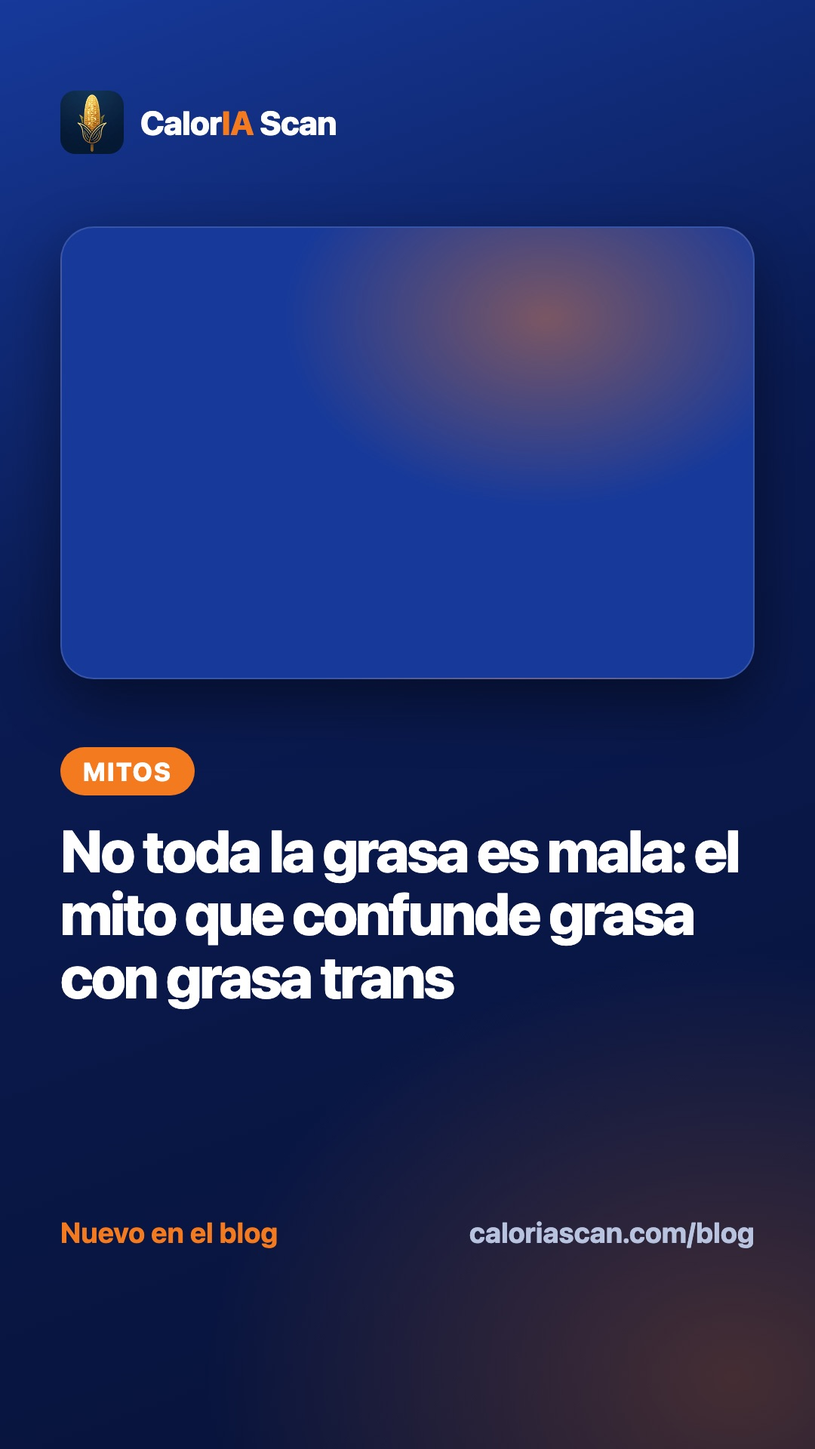
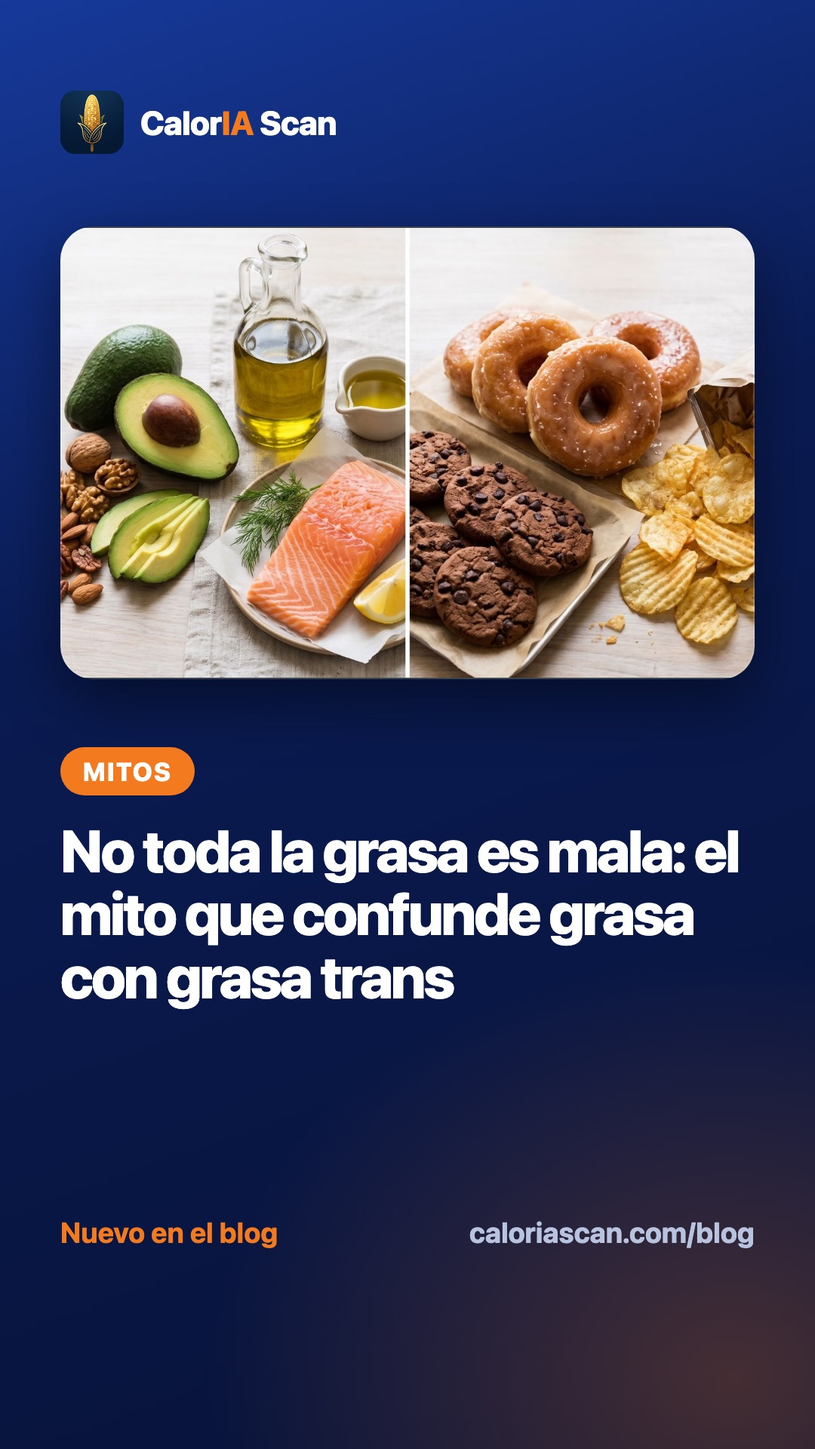
Blog: add hero photo and CalorIA Scan callout to the fat myth article (ES/EN)
Photo of healthy fats vs ultra-processed snacks, provided by CalorIA Scan,
cropped to 16:9 at 1600x900. Adds the "Qué puede hacer CalorIA Scan por ti"
section before the conclusion and softens the conclusion's claim about fat
types. The regenerated page also picks up the callout styles and a fresher
"Keep reading" list; the Mitos card on both hubs now shows the photo.

Changed region(s): [[0.0611, 0.1562, 0.9472, 0.4688]]

diff --git a/blog/grasa-buena-vs-grasa-trans-mito.html b/blog/grasa-buena-vs-grasa-trans-mito.html
@@ -62,6 +62,18 @@ p{margin:0 0 16px;font-size:17px}
 .tldr{background:var(--soft);border:1px solid var(--line);border-left:4px solid var(--g);border-radius:12px;padding:16px 20px;margin:26px 0}
 .tldr h2{margin:0 0 8px;font-size:15px;text-transform:uppercase;letter-spacing:.05em;color:var(--g)}
 .tldr ul{margin:0;padding-left:20px}.tldr li{margin:6px 0;font-size:16px}
+.tldr-jump{display:inline-block;margin-top:10px;font-size:15px;font-weight:700;color:var(--g);text-decoration:none}.tldr-jump:hover{text-decoration:underline}
+.app-callout{position:relative;margin:40px 0;padding:22px 24px 20px 30px;border-radius:20px;background:linear-gradient(160deg,#f3faf4 0%,#e8f4eb 100%);border:1.5px solid #bfe0c5;box-shadow:0 10px 30px rgba(46,125,50,.12);scroll-margin-top:20px}
+.app-callout::before{content:"";position:absolute;left:0;top:0;bottom:0;width:7px;border-radius:20px 0 0 20px;background:linear-gradient(180deg,var(--g),#e8622e)}
+.app-tag{display:flex;align-items:center;gap:10px;font-size:12px;font-weight:800;letter-spacing:.08em;text-transform:uppercase;color:var(--g)}
+.app-tag img{border-radius:8px;display:block}
+.app-callout h2{margin:8px 0 12px}
+.app-callout ul{list-style:none;padding:0;margin:0 0 14px}
+.app-callout li{position:relative;padding:11px 0 11px 36px;border-top:1px solid #d3e8d6;font-size:16px;line-height:1.5}
+.app-callout li:first-child{border-top:0}
+.app-callout li::before{content:"✓";position:absolute;left:0;top:11px;width:23px;height:23px;border-radius:50%;background:var(--g);color:#fff;font-size:13px;font-weight:800;display:flex;align-items:center;justify-content:center;line-height:1}
+.app-callout p:last-of-type{margin-bottom:6px}
+@media(max-width:560px){.app-callout{padding:20px 18px 18px 24px}}
 .cta{background:#f0f7f1;border:1px solid #cfe6d3;border-radius:16px;padding:24px;margin:34px 0;text-align:center}
 .cta h2{margin:0 0 8px}.cta p{color:var(--ink)}.btn{display:inline-block;background:var(--g);color:#fff;text-decoration:none;padding:13px 24px;border-radius:10px;font-weight:700;margin-top:6px}
 .sources{font-size:14px;color:var(--mut);padding-left:22px}.sources li{margin:7px 0}.sources a{word-break:break-word}
@@ -87,6 +99,30 @@ ul.rel a:hover{border-color:var(--g)}
 .comment-hp{position:absolute;left:-9999px;width:1px;height:1px;overflow:hidden}
 .disc{font-size:12px;color:var(--mut);border-top:1px solid var(--line);margin-top:38px;padding-top:14px}
 footer{font-size:13px;color:var(--mut);margin-top:16px}footer a{color:var(--mut)}
+.shots{margin:26px 0}.shots .phones{display:flex;flex-wrap:wrap;justify-content:center;gap:22px}.shots figcaption{font-size:13px;color:var(--mut);text-align:center;margin-top:12px}
+.phone{position:relative;width:300px;height:590px;border:7px solid #1c2430;border-radius:38px;background:#FCF3E9;overflow:hidden;font-family:ui-rounded,"SF Pro Rounded","Nunito",-apple-system,"Segoe UI",system-ui,sans-serif;color:#2b1c12;line-height:1.25;box-shadow:0 14px 34px rgba(60,40,20,.18);text-align:left}
+.phone *{box-sizing:border-box;margin:0}
+.phone .ph-top{display:flex;align-items:center;gap:22px;padding:16px 16px 8px}.phone .ph-top b{font-size:19px;font-weight:800}
+.phone .ph-card{background:#fff;border-radius:22px;padding:14px;margin:8px 10px 10px;box-shadow:0 4px 14px rgba(120,80,30,.07)}
+.phone .ph-ring{display:flex;align-items:center;gap:12px}.phone .ph-ring .ph-mut{white-space:nowrap}.phone .ph-ring div>.ph-mut:last-child{font-size:11px}.phone .ph-ring svg{flex:none}
+.phone .ph-mut{color:#8b7a6a;font-size:12px}.phone .ph-big{font-size:36px;font-weight:900;color:#2DBE60;line-height:1.05}
+.phone .ph-bar{height:11px;border-radius:6px;background:#8FB0E4;margin:12px 0 9px}.phone .ph-leg{font-size:12px;color:#8b7a6a;display:flex;align-items:center;gap:6px}
+.phone .dot{width:9px;height:9px;border-radius:50%;display:inline-block;flex:none}
+.phone .ph-h{display:flex;align-items:center;gap:8px;font-weight:800;font-size:17px}
+.phone .pro{background:#F5821F;color:#fff;font-size:9px;font-weight:800;border-radius:10px;padding:3px 8px;letter-spacing:.03em}
+.phone .seg{display:inline-flex;background:#FFCB77;border-radius:14px;padding:3px;margin:10px 0 9px}.phone .seg span{font-size:12px;padding:6px 12px;border-radius:11px;color:#6b4a1c}.phone .seg .on{background:#FF8A1F;color:#fff;font-weight:700}
+.phone .ph-stack{display:flex;gap:2px;height:11px;margin:9px 0 10px}.phone .ph-stack i{display:block;height:100%}.phone .ph-stack i:first-child{border-radius:6px 0 0 6px}.phone .ph-stack i:last-child{border-radius:0 6px 6px 0}
+.phone .ph-note{background:#E6F6EA;border-radius:14px;padding:9px 12px;font-size:12.5px;color:#6f6558;margin-bottom:8px}
+.phone .ph-row{display:flex;align-items:center;gap:10px;padding:7px 0}.phone .ph-row .n{flex:1;font-size:14px;color:#7a6a5a;font-weight:700}.phone .ph-row small{display:block;font-size:11.5px;font-weight:500;color:#8b7a6a}.phone .ph-row .r{text-align:right;font-weight:800;font-size:14px;color:#2b1c12}.phone .ph-row .r small{font-weight:500}
+.phone .ph-ai{background:linear-gradient(135deg,#FFF1E0,#FFE2C8);border:1.5px solid #F8C79A;border-radius:22px;padding:13px 14px;margin:8px 10px 10px}
+.phone .ph-ai .hd{display:flex;align-items:center;gap:9px;font-weight:800;font-size:14px}.phone .ph-ai .hd .pro{margin-left:auto}.phone .ph-ai p{display:flex;gap:9px;font-size:12.5px;line-height:1.45;color:#3a2a1e;margin:9px 0 0}
+.phone .chips{display:flex;gap:7px;margin:10px 0 6px;overflow:hidden;white-space:nowrap}.phone .chips span{border:1.5px solid #E6DED3;border-radius:20px;padding:6px 11px;font-size:12px;color:#4a3a2c;display:inline-flex;align-items:center;gap:6px;flex:none}.phone .chips .on{background:#FF8A1F;border-color:#FF8A1F;color:#fff;font-weight:700}
+.phone .ph-meal{display:flex;gap:10px;padding:7px 0}.phone .ph-ico{width:40px;height:40px;border-radius:12px;background:#FFCB77;flex:none;display:flex;align-items:center;justify-content:center;font-size:18px}
+.phone .ph-meal b{display:block;font-size:14px;color:#7a6a5a;font-weight:700}.phone .ph-meal .m{font-size:11.5px;color:#8b7a6a}.phone .tag{display:inline-block;background:#E8EEFA;color:#6a7f9e;border-radius:10px;padding:3px 9px;font-size:11.5px;margin-top:5px}.phone .tag.p{background:#FBEBD0;color:#9a7a45}
+.phone .ph-nav{position:absolute;left:10px;right:10px;bottom:12px;height:56px;background:#fff;border-radius:26px;box-shadow:0 -2px 18px rgba(120,80,30,.12);display:grid;grid-template-columns:1fr 1fr 62px 1fr 1fr;align-items:center;text-align:center}
+.phone .ph-nav div{font-size:10px;color:#b9a99a;display:flex;flex-direction:column;align-items:center;gap:2px}.phone .ph-nav div svg{width:20px;height:20px;fill:currentColor}.phone .ph-nav .on{color:#F5821F;font-weight:700}
+.phone .ph-fab{position:absolute;left:50%;bottom:36px;width:54px;height:54px;margin-left:-27px;border-radius:50%;background:linear-gradient(#FFB04A,#F57C1F);box-shadow:0 4px 0 #D96A12,0 8px 16px rgba(245,124,31,.35);display:flex;align-items:center;justify-content:center}.phone .ph-fab svg{width:26px;height:26px;fill:#fff}
+@media(max-width:560px){.phone{width:100%;max-width:300px}}
 @media(max-width:560px){h1{font-size:27px}.dek{font-size:17px}ul.rel{grid-template-columns:1fr}}
 </style>
 </head>
@@ -99,13 +135,14 @@ footer{font-size:13px;color:var(--mut);margin-top:16px}footer a{color:var(--mut)
 <p class="dek">Durante años nos vendieron la idea de que "bajo en grasa" es sinónimo de saludable. La ciencia dice algo distinto: importa qué tipo de grasa comes, no cuánta.</p>
 <p class="meta">Por CalorIA Scan · 18 de agosto de 2026 · 2 min de lectura</p>
 <div class="med-note" role="note"><span class="med-i" aria-hidden="true">i</span><div><b>Información, no consejo médico.</b> Consulta a un médico o nutriólogo antes de cambiar tu dieta, sobre todo si tienes alguna condición de salud.<small>Fuentes consultadas al publicar (18 de agosto de 2026) · <a href="/terms">Ver términos</a></small></div></div>
-
-<div class="tldr"><h2>En resumen</h2><ul><li>La OMS no recomienda eliminar la grasa: recomienda limitar la grasa saturada a menos del 10% de tus calorías diarias y la grasa trans a menos del 1%.</li><li>Las grasas insaturadas —las del aguacate, el aceite de oliva, las nueces y el pescado— no son el problema; se asocian con menor riesgo cardiovascular.</li><li>Muchos productos "bajos en grasa" de los 90 reemplazaban esa grasa con azúcar y harinas refinadas —lo cual empeoró, no mejoró, el problema.</li></ul></div>
+<img class="hero" src="/blog/img/grasa-buena-vs-grasa-trans-mito.jpg" alt="No toda la grasa es mala: el mito que confunde grasa con grasa trans" width="1200" height="675" loading="eager">
+<div class="tldr"><h2>En resumen</h2><ul><li>La OMS no recomienda eliminar la grasa: recomienda limitar la grasa saturada a menos del 10% de tus calorías diarias y la grasa trans a menos del 1%.</li><li>Las grasas insaturadas —las del aguacate, el aceite de oliva, las nueces y el pescado— no son el problema; se asocian con menor riesgo cardiovascular.</li><li>Muchos productos "bajos en grasa" de los 90 reemplazaban esa grasa con azúcar y harinas refinadas —lo cual empeoró, no mejoró, el problema.</li></ul><a class="tldr-jump" href="#que-hace-caloria-scan">Ir a: Qué puede hacer CalorIA Scan por ti ↓</a></div>
 <h2>De dónde viene el mito</h2><p>Durante los años 80 y 90, la industria alimentaria promovió con fuerza los productos "bajos en grasa" o "sin grasa" como la opción saludable por excelencia. El mensaje caló tan hondo que muchas personas todavía asocian cualquier grasa en la comida con subir de peso o dañar el corazón. El problema es que ese mensaje nunca distinguió entre los distintos tipos de grasa —y esa distinción es exactamente lo que importa.</p>
 <h2>Lo que la OMS realmente recomienda</h2><p>La Organización Mundial de la Salud no pide eliminar la grasa de la dieta. Su recomendación es limitar la grasa saturada a menos del 10% de las calorías diarias y la grasa trans a menos del 1% —idealmente evitarla por completo—, mientras se favorece un cambio hacia grasas insaturadas. Es una recomendación sobre el tipo de grasa, no sobre la cantidad total que comes.</p>
 <h2>La grasa que sí conviene comer</h2><p>Las grasas insaturadas —presentes en el aceite de oliva, el aguacate, las nueces, las semillas y el pescado— se asocian con menor riesgo cardiovascular, no mayor. Eliminarlas de la dieta no solo es innecesario, sino que te priva de nutrientes que el cuerpo necesita para absorber vitaminas y mantener las células funcionando bien.</p>
 <h2>El efecto secundario de las dietas bajas en grasa</h2><p>Cuando un producto le quita la grasa a un alimento, casi siempre necesita reemplazarla con algo para que siga sabiendo bien —y ese algo suele ser azúcar o harinas refinadas. Así fue como muchos productos "light" de los 90 terminaron siendo menos saludables que sus versiones originales, a pesar de la etiqueta.</p>
-<h2>La conclusión práctica</h2><p>No se trata de comer sin grasa, se trata de elegir bien de dónde viene. Cambia manteca y margarina por aceite de oliva, prioriza pescado y nueces sobre embutidos, y no le tengas miedo al aguacate. Si quieres ver exactamente cuánta grasa —y de qué tipo— llevas en tu plato, escanéalo con CalorIA Scan.</p>
+<section class="app-callout" id="que-hace-caloria-scan"><div class="app-tag"><img src="/assets/icon-app.png" alt="" width="30" height="30"><span>Con CalorIA Scan</span></div><h2>Qué puede hacer CalorIA Scan por ti</h2><p><ul><li><strong>Escanear tu plato:</strong> toma una foto y la app estima calorías y macros, incluida la grasa, pensando en la comida mexicana real.</li><li><strong>Ver de dónde vienen las calorías:</strong> el desglose por ingrediente te deja ver qué aporta más: el aguacate, el aceite del guisado o la fritura.</li><li><strong>Ajustar ingredientes y porciones:</strong> cambia frito por asado, quita la crema o corrige la porción (de ½ a 5); todo se recalcula al instante.</li><li><strong>Ver tu día frente a tu meta:</strong> define tu meta de calorías y macros y mira cuánto te queda.</li></ul></p><p>Los valores son estimaciones hechas con IA. Para saber si un producto empaquetado tiene grasas trans, lo más confiable sigue siendo su etiqueta.</p></section>
+<h2>La conclusión práctica</h2><p>No se trata de comer sin grasa, se trata de elegir bien de dónde viene. Cambia manteca y margarina por aceite de oliva, prioriza pescado y nueces sobre embutidos, y no le tengas miedo al aguacate. Si quieres saber cuánta grasa llevas en tu plato, escanéalo con CalorIA Scan.</p>
 
 <div class="cta">
 <h2>Deja de adivinar tus calorías</h2>
@@ -165,7 +202,7 @@ function igShare(b){var t=document.getElementById('ig-cap').value;fetch(b.getAtt
 </div>
 
 <h2>Sigue leyendo</h2>
-<ul class="rel"><li><a href="/blog/e141-clorofila-cobre-colorante"><span class="rc-emoji">🧪</span><span class="rc-cat">Aditivos</span><span class="rc-title">El verde brillante de tu goma de mascar no es "natural": es clorofila con cobre</span></a></li><li><a href="/blog/barras-granola-azucar-oculta"><span class="rc-emoji">🌾</span><span class="rc-cat">Mitos</span><span class="rc-title">Tu barrita de granola "fit" puede tener tanta azúcar como una galleta</span></a></li><li><a href="/blog/productos-light-azucar-oculta"><span class="rc-emoji">🍓</span><span class="rc-cat">Mitos</span><span class="rc-title">Tu yogurt "light" puede tener más azúcar que una dona</span></a></li><li><a href="/blog/huevo-colesterol-mito"><span class="rc-emoji">🥚</span><span class="rc-cat">Mitos</span><span class="rc-title">¿El huevo te tapa las arterias? Lo que la ciencia realmente encontró</span></a></li></ul>
+<ul class="rel"><li><a href="/blog/frijoles-proteina-o-carbohidrato"><span class="rc-emoji">🫘</span><span class="rc-cat">Mitos</span><span class="rc-title">¿Los frijoles son proteína o carbohidrato? La respuesta, con números</span></a></li><li><a href="/blog/maraton-guadalupe-reyes-cuanto-peso-se-sube"><span class="rc-emoji">🎄</span><span class="rc-cat">Salud</span><span class="rc-title">Maratón Guadalupe-Reyes: cuánto peso se sube y cómo evitarlo</span></a></li><li><a href="/blog/calorias-posadas-tamales-ponche-bunuelos"><span class="rc-emoji">🫔</span><span class="rc-cat">Salud</span><span class="rc-title">Calorías de las posadas: tamales, ponche y buñuelos</span></a></li><li><a href="/blog/deficit-calorico-que-es-por-que-importa"><span class="rc-emoji">⚖</span><span class="rc-cat">Salud</span><span class="rc-title">Déficit calórico: qué es, por qué importa y cómo CalorIA Scan te ayuda a llevarlo</span></a></li></ul>
 
 <p class="disc">Este artículo es informativo y no constituye consejo médico. Consulta a un médico o nutriólogo antes de cambiar tu dieta, especialmente si tienes alguna condición de salud.</p>
 <footer>© 2026 CalorIA Scan · <a href="/">Inicio</a> · <a href="/privacy-policy">Privacidad</a> · <a href="/terms">Términos</a></footer>

diff --git a/en/blog/grasa-buena-vs-grasa-trans-mito.html b/en/blog/grasa-buena-vs-grasa-trans-mito.html
@@ -62,6 +62,18 @@ p{margin:0 0 16px;font-size:17px}
 .tldr{background:var(--soft);border:1px solid var(--line);border-left:4px solid var(--g);border-radius:12px;padding:16px 20px;margin:26px 0}
 .tldr h2{margin:0 0 8px;font-size:15px;text-transform:uppercase;letter-spacing:.05em;color:var(--g)}
 .tldr ul{margin:0;padding-left:20px}.tldr li{margin:6px 0;font-size:16px}
+.tldr-jump{display:inline-block;margin-top:10px;font-size:15px;font-weight:700;color:var(--g);text-decoration:none}.tldr-jump:hover{text-decoration:underline}
+.app-callout{position:relative;margin:40px 0;padding:22px 24px 20px 30px;border-radius:20px;background:linear-gradient(160deg,#f3faf4 0%,#e8f4eb 100%);border:1.5px solid #bfe0c5;box-shadow:0 10px 30px rgba(46,125,50,.12);scroll-margin-top:20px}
+.app-callout::before{content:"";position:absolute;left:0;top:0;bottom:0;width:7px;border-radius:20px 0 0 20px;background:linear-gradient(180deg,var(--g),#e8622e)}
+.app-tag{display:flex;align-items:center;gap:10px;font-size:12px;font-weight:800;letter-spacing:.08em;text-transform:uppercase;color:var(--g)}
+.app-tag img{border-radius:8px;display:block}
+.app-callout h2{margin:8px 0 12px}
+.app-callout ul{list-style:none;padding:0;margin:0 0 14px}
+.app-callout li{position:relative;padding:11px 0 11px 36px;border-top:1px solid #d3e8d6;font-size:16px;line-height:1.5}
+.app-callout li:first-child{border-top:0}
+.app-callout li::before{content:"✓";position:absolute;left:0;top:11px;width:23px;height:23px;border-radius:50%;background:var(--g);color:#fff;font-size:13px;font-weight:800;display:flex;align-items:center;justify-content:center;line-height:1}
+.app-callout p:last-of-type{margin-bottom:6px}
+@media(max-width:560px){.app-callout{padding:20px 18px 18px 24px}}
 .cta{background:#f0f7f1;border:1px solid #cfe6d3;border-radius:16px;padding:24px;margin:34px 0;text-align:center}
 .cta h2{margin:0 0 8px}.cta p{color:var(--ink)}.btn{display:inline-block;background:var(--g);color:#fff;text-decoration:none;padding:13px 24px;border-radius:10px;font-weight:700;margin-top:6px}
 .sources{font-size:14px;color:var(--mut);padding-left:22px}.sources li{margin:7px 0}.sources a{word-break:break-word}
@@ -87,6 +99,30 @@ ul.rel a:hover{border-color:var(--g)}
 .comment-hp{position:absolute;left:-9999px;width:1px;height:1px;overflow:hidden}
 .disc{font-size:12px;color:var(--mut);border-top:1px solid var(--line);margin-top:38px;padding-top:14px}
 footer{font-size:13px;color:var(--mut);margin-top:16px}footer a{color:var(--mut)}
+.shots{margin:26px 0}.shots .phones{display:flex;flex-wrap:wrap;justify-content:center;gap:22px}.shots figcaption{font-size:13px;color:var(--mut);text-align:center;margin-top:12px}
+.phone{position:relative;width:300px;height:590px;border:7px solid #1c2430;border-radius:38px;background:#FCF3E9;overflow:hidden;font-family:ui-rounded,"SF Pro Rounded","Nunito",-apple-system,"Segoe UI",system-ui,sans-serif;color:#2b1c12;line-height:1.25;box-shadow:0 14px 34px rgba(60,40,20,.18);text-align:left}
+.phone *{box-sizing:border-box;margin:0}
+.phone .ph-top{display:flex;align-items:center;gap:22px;padding:16px 16px 8px}.phone .ph-top b{font-size:19px;font-weight:800}
+.phone .ph-card{background:#fff;border-radius:22px;padding:14px;margin:8px 10px 10px;box-shadow:0 4px 14px rgba(120,80,30,.07)}
+.phone .ph-ring{display:flex;align-items:center;gap:12px}.phone .ph-ring .ph-mut{white-space:nowrap}.phone .ph-ring div>.ph-mut:last-child{font-size:11px}.phone .ph-ring svg{flex:none}
+.phone .ph-mut{color:#8b7a6a;font-size:12px}.phone .ph-big{font-size:36px;font-weight:900;color:#2DBE60;line-height:1.05}
+.phone .ph-bar{height:11px;border-radius:6px;background:#8FB0E4;margin:12px 0 9px}.phone .ph-leg{font-size:12px;color:#8b7a6a;display:flex;align-items:center;gap:6px}
+.phone .dot{width:9px;height:9px;border-radius:50%;display:inline-block;flex:none}
+.phone .ph-h{display:flex;align-items:center;gap:8px;font-weight:800;font-size:17px}
+.phone .pro{background:#F5821F;color:#fff;font-size:9px;font-weight:800;border-radius:10px;padding:3px 8px;letter-spacing:.03em}
+.phone .seg{display:inline-flex;background:#FFCB77;border-radius:14px;padding:3px;margin:10px 0 9px}.phone .seg span{font-size:12px;padding:6px 12px;border-radius:11px;color:#6b4a1c}.phone .seg .on{background:#FF8A1F;color:#fff;font-weight:700}
+.phone .ph-stack{display:flex;gap:2px;height:11px;margin:9px 0 10px}.phone .ph-stack i{display:block;height:100%}.phone .ph-stack i:first-child{border-radius:6px 0 0 6px}.phone .ph-stack i:last-child{border-radius:0 6px 6px 0}
+.phone .ph-note{background:#E6F6EA;border-radius:14px;padding:9px 12px;font-size:12.5px;color:#6f6558;margin-bottom:8px}
+.phone .ph-row{display:flex;align-items:center;gap:10px;padding:7px 0}.phone .ph-row .n{flex:1;font-size:14px;color:#7a6a5a;font-weight:700}.phone .ph-row small{display:block;font-size:11.5px;font-weight:500;color:#8b7a6a}.phone .ph-row .r{text-align:right;font-weight:800;font-size:14px;color:#2b1c12}.phone .ph-row .r small{font-weight:500}
+.phone .ph-ai{background:linear-gradient(135deg,#FFF1E0,#FFE2C8);border:1.5px solid #F8C79A;border-radius:22px;padding:13px 14px;margin:8px 10px 10px}
+.phone .ph-ai .hd{display:flex;align-items:center;gap:9px;font-weight:800;font-size:14px}.phone .ph-ai .hd .pro{margin-left:auto}.phone .ph-ai p{display:flex;gap:9px;font-size:12.5px;line-height:1.45;color:#3a2a1e;margin:9px 0 0}
+.phone .chips{display:flex;gap:7px;margin:10px 0 6px;overflow:hidden;white-space:nowrap}.phone .chips span{border:1.5px solid #E6DED3;border-radius:20px;padding:6px 11px;font-size:12px;color:#4a3a2c;display:inline-flex;align-items:center;gap:6px;flex:none}.phone .chips .on{background:#FF8A1F;border-color:#FF8A1F;color:#fff;font-weight:700}
+.phone .ph-meal{display:flex;gap:10px;padding:7px 0}.phone .ph-ico{width:40px;height:40px;border-radius:12px;background:#FFCB77;flex:none;display:flex;align-items:center;justify-content:center;font-size:18px}
+.phone .ph-meal b{display:block;font-size:14px;color:#7a6a5a;font-weight:700}.phone .ph-meal .m{font-size:11.5px;color:#8b7a6a}.phone .tag{display:inline-block;background:#E8EEFA;color:#6a7f9e;border-radius:10px;padding:3px 9px;font-size:11.5px;margin-top:5px}.phone .tag.p{background:#FBEBD0;color:#9a7a45}
+.phone .ph-nav{position:absolute;left:10px;right:10px;bottom:12px;height:56px;background:#fff;border-radius:26px;box-shadow:0 -2px 18px rgba(120,80,30,.12);display:grid;grid-template-columns:1fr 1fr 62px 1fr 1fr;align-items:center;text-align:center}
+.phone .ph-nav div{font-size:10px;color:#b9a99a;display:flex;flex-direction:column;align-items:center;gap:2px}.phone .ph-nav div svg{width:20px;height:20px;fill:currentColor}.phone .ph-nav .on{color:#F5821F;font-weight:700}
+.phone .ph-fab{position:absolute;left:50%;bottom:36px;width:54px;height:54px;margin-left:-27px;border-radius:50%;background:linear-gradient(#FFB04A,#F57C1F);box-shadow:0 4px 0 #D96A12,0 8px 16px rgba(245,124,31,.35);display:flex;align-items:center;justify-content:center}.phone .ph-fab svg{width:26px;height:26px;fill:#fff}
+@media(max-width:560px){.phone{width:100%;max-width:300px}}
 @media(max-width:560px){h1{font-size:27px}.dek{font-size:17px}ul.rel{grid-template-columns:1fr}}
 </style>
 </head>
@@ -99,13 +135,14 @@ footer{font-size:13px;color:var(--mut);margin-top:16px}footer a{color:var(--mut)
 <p class="dek">For years we were sold the idea that "low-fat" means healthy. The science says something different: what type of fat you eat matters more than how much.</p>
 <p class="meta">By CalorIA Scan · August 18, 2026 · 2 min read</p>
 <div class="med-note" role="note"><span class="med-i" aria-hidden="true">i</span><div><b>Informational, not medical advice.</b> Consult a doctor or registered dietitian before changing your diet, especially with a pre-existing condition.<small>Sources checked at publication (August 18, 2026) · <a href="/en/terms">See terms</a></small></div></div>
-
-<div class="tldr"><h2>The short version</h2><ul><li>The WHO doesn't recommend cutting out fat: it recommends keeping saturated fat under 10% of your daily calories and trans fat under 1%.</li><li>Unsaturated fats —found in avocado, olive oil, nuts and fish— aren't the problem; they're linked to lower cardiovascular risk.</li><li>Many "low-fat" products from the 90s replaced that fat with sugar and refined flour —which made things worse, not better.</li></ul></div>
+<img class="hero" src="/blog/img/grasa-buena-vs-grasa-trans-mito.jpg" alt="Not all fat is bad: the myth that confuses fat with trans fat" width="1200" height="675" loading="eager">
+<div class="tldr"><h2>The short version</h2><ul><li>The WHO doesn't recommend cutting out fat: it recommends keeping saturated fat under 10% of your daily calories and trans fat under 1%.</li><li>Unsaturated fats —found in avocado, olive oil, nuts and fish— aren't the problem; they're linked to lower cardiovascular risk.</li><li>Many "low-fat" products from the 90s replaced that fat with sugar and refined flour —which made things worse, not better.</li></ul><a class="tldr-jump" href="#que-hace-caloria-scan">Jump to: What CalorIA Scan does for you ↓</a></div>
 <h2>Where the myth comes from</h2><p>Through the 80s and 90s, the food industry heavily pushed "low-fat" and "fat-free" products as the healthy choice by default. The message stuck so well that many people still associate any fat in food with weight gain or heart damage. The problem is that message never distinguished between different types of fat —and that distinction is exactly what matters.</p>
 <h2>What the WHO actually recommends</h2><p>The World Health Organization doesn't call for cutting fat out of your diet. Its recommendation is to keep saturated fat under 10% of daily calories and trans fat under 1% —ideally avoiding it entirely— while shifting toward unsaturated fats. It's a recommendation about the type of fat, not the total amount you eat.</p>
 <h2>The fat you should actually be eating</h2><p>Unsaturated fats —found in olive oil, avocado, nuts, seeds and fish— are linked to lower cardiovascular risk, not higher. Cutting them out isn't just unnecessary, it deprives your body of nutrients it needs to absorb vitamins and keep cells working properly.</p>
 <h2>The side effect of low-fat diets</h2><p>When a product strips the fat out of a food, it almost always needs to replace it with something to keep it tasting good —and that something is usually sugar or refined flour. That's how a lot of "light" products from the 90s ended up less healthy than their original versions, despite the label.</p>
-<h2>The practical takeaway</h2><p>It's not about eating fat-free, it's about choosing where your fat comes from. Swap lard and margarine for olive oil, prioritize fish and nuts over processed meats, and don't fear the avocado. If you want to see exactly how much fat —and what type— is on your plate, scan it with CalorIA Scan.</p>
+<section class="app-callout" id="que-hace-caloria-scan"><div class="app-tag"><img src="/assets/icon-app.png" alt="" width="30" height="30"><span>With CalorIA Scan</span></div><h2>What CalorIA Scan does for you</h2><p><ul><li><strong>Scan your plate:</strong> take a photo and the app estimates calories and macros, fat included, built for real Mexican food.</li><li><strong>See where the calories come from:</strong> the ingredient breakdown shows what adds the most: the avocado, the cooking oil or the frying.</li><li><strong>Adjust ingredients and portions:</strong> swap fried for grilled, remove the cream or fix the portion (from ½ to 5); everything recalculates instantly.</li><li><strong>See your day against your goal:</strong> set your calorie and macro goal and see what's left.</li></ul></p><p>Values are AI estimates. To know whether a packaged product contains trans fat, its nutrition label is still the most reliable source.</p></section>
+<h2>The practical takeaway</h2><p>It's not about eating fat-free, it's about choosing where your fat comes from. Swap lard and margarine for olive oil, prioritize fish and nuts over processed meats, and don't fear the avocado. If you want to know how much fat is on your plate, scan it with CalorIA Scan.</p>
 
 <div class="cta">
 <h2>Stop guessing your calories</h2>
@@ -165,7 +202,7 @@ function igShare(b){var t=document.getElementById('ig-cap').value;fetch(b.getAtt
 </div>
 
 <h2>Keep reading</h2>
-<ul class="rel"><li><a href="/en/blog/e141-clorofila-cobre-colorante"><span class="rc-emoji">🧪</span><span class="rc-cat">Additives</span><span class="rc-title">That bright green in your chewing gum isn't "natural" — it's chlorophyll with copper</span></a></li><li><a href="/en/blog/barras-granola-azucar-oculta"><span class="rc-emoji">🌾</span><span class="rc-cat">Myths</span><span class="rc-title">That "fit" granola bar can carry as much sugar as a cookie</span></a></li><li><a href="/en/blog/productos-light-azucar-oculta"><span class="rc-emoji">🍓</span><span class="rc-cat">Myths</span><span class="rc-title">Your "light" yogurt can pack more sugar than a donut</span></a></li><li><a href="/en/blog/huevo-colesterol-mito"><span class="rc-emoji">🥚</span><span class="rc-cat">Myths</span><span class="rc-title">Do eggs clog your arteries? What the science actually found</span></a></li></ul>
+<ul class="rel"><li><a href="/en/blog/frijoles-proteina-o-carbohidrato"><span class="rc-emoji">🫘</span><span class="rc-cat">Myths</span><span class="rc-title">Are beans a protein or a carb? The answer, with numbers</span></a></li><li><a href="/en/blog/maraton-guadalupe-reyes-cuanto-peso-se-sube"><span class="rc-emoji">🎄</span><span class="rc-cat">Health</span><span class="rc-title">Guadalupe-Reyes marathon: how much weight you gain and how to avoid it</span></a></li><li><a href="/en/blog/calorias-posadas-tamales-ponche-bunuelos"><span class="rc-emoji">🫔</span><span class="rc-cat">Health</span><span class="rc-title">Posadas calories: tamales, ponche and buñuelos</span></a></li><li><a href="/en/blog/deficit-calorico-que-es-por-que-importa"><span class="rc-emoji">⚖</span><span class="rc-cat">Health</span><span class="rc-title">Calorie deficit: what it is, why it matters and how CalorIA Scan helps you track it</span></a></li></ul>
 
 <p class="disc">This article is informational and not medical advice. Consult a doctor or registered dietitian before changing your diet, especially with a pre-existing condition.</p>
 <footer>© 2026 CalorIA Scan · <a href="/en/">Home</a> · <a href="/privacy-policy">Privacy</a> · <a href="/terms">Terms</a></footer>

diff --git a/blog/index.html b/blog/index.html
@@ -309,7 +309,7 @@ footer{padding:40px 20px 28px;text-align:center;border-top:.5px solid var(--line
   <div class="eyebrow">Mitos</div>
   <div class="grid">
     <a class="glass card" href="/blog/grasa-buena-vs-grasa-trans-mito">
-      <div class="thumb logo"><span class="icon-wrap"><img src="/assets/icon-app.png" alt="CalorIA Scan"></span><span class="badge" style="color:var(--orange);background:rgba(204,85,0,.10)">🧈 Mitos</span></div>
+      <div class="thumb"><img src="/blog/img/grasa-buena-vs-grasa-trans-mito.jpg" alt="No toda la grasa es mala: el mito que confunde grasa con grasa trans"><span class="badge" style="color:var(--orange);background:rgba(204,85,0,.10)">🧈 Mitos</span></div>
       <div class="body">
         <h3>No toda la grasa es mala: el mito que confunde grasa con grasa trans</h3>
         <p class="dk">"Bajo en grasa" no siempre significó saludable. Te explicamos qué tipo de grasa sí conviene comer, según la OMS.</p>

diff --git a/en/blog/index.html b/en/blog/index.html
@@ -309,7 +309,7 @@ footer{padding:40px 20px 28px;text-align:center;border-top:.5px solid var(--line
   <div class="eyebrow">Myths</div>
   <div class="grid">
     <a class="glass card" href="/en/blog/grasa-buena-vs-grasa-trans-mito">
-      <div class="thumb logo"><span class="icon-wrap"><img src="/assets/icon-app.png" alt="CalorIA Scan"></span><span class="badge" style="color:var(--orange);background:rgba(204,85,0,.10)">🧈 Myths</span></div>
+      <div class="thumb"><img src="/blog/img/grasa-buena-vs-grasa-trans-mito.jpg" alt="Not all fat is bad: the myth that confuses fat with trans fat"><span class="badge" style="color:var(--orange);background:rgba(204,85,0,.10)">🧈 Myths</span></div>
       <div class="body">
         <h3>Not all fat is bad: the myth that confuses fat with trans fat</h3>
         <p class="dk">"Low-fat" never automatically meant healthy. Here's what type of fat you should actually eat, according to the WHO.</p>
